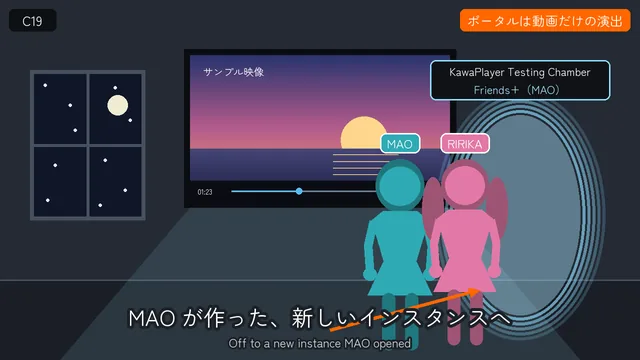
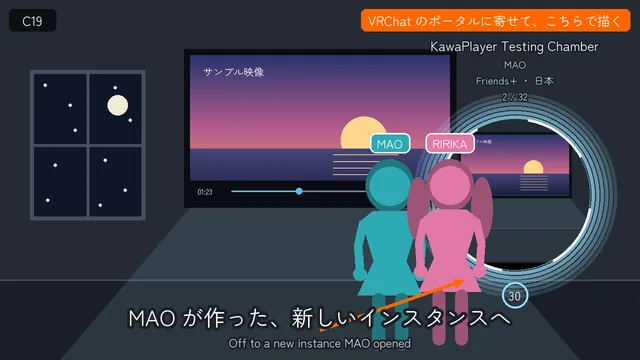
docs(design): draw the portal after VRChat's own (#262)
The portal is made in Unity for the video, laid out like a VRChat
portal: the world's picture inside a round gate, the world, its maker,
the instance type and the head count above, the seconds left below.
All of it is drawn here, as VRChat's terms forbid copying or modifying
its client's interface and graphics.

Claude-Session: https://claude.ai/code/session_014UgSPcxLDoFJhLM3Stmszr

Changed region(s): [[0.5, 0.0, 0.9688, 0.9778]]

diff --git a/docs/design/262-intro-video/images/frames.py b/docs/design/262-intro-video/images/frames.py
@@ -965,30 +965,44 @@ def c18():
     return im
 
 
-def portal(im, cx, cy, rx, ry):
-    """A portal of the video's own design: a ring of light, with where it leads above it."""
-    def draw(o):
-        for k in range(6):
-            o.ellipse((cx - rx - k * 10, cy - ry - k * 10, cx + rx + k * 10, cy + ry + k * 10),
-                      outline=(140, 220, 255, 200 - k * 30), width=6)
-        o.ellipse((cx - rx, cy - ry, cx + rx, cy + ry), fill=(170, 230, 255, 110))
-    overlay(im, draw)
+def portal(im, cx, cy, r):
+    """A portal laid out like VRChat's, drawn here from scratch: a round gate showing the world
+    it leads to, what the instance is above it, and the seconds left below it."""
+    thumb = new(NIGHT["wall"])
+    room(thumb, screen=sample_video(bar=False), glow=True)
+    thumb = thumb.crop((280, 40, 1000, 760)).resize((int(r * 2), int(r * 2)), Image.LANCZOS)
+    mask = Image.new("L", thumb.size, 0)
+    ImageDraw.Draw(mask).ellipse((0, 0, thumb.width - 1, thumb.height - 1), fill=255)
+    thumb.putalpha(mask)
+
+    def glow(o):
+        for k in range(7):
+            o.ellipse((cx - r - k * 9, cy - r - k * 9, cx + r + k * 9, cy + r + k * 9),
+                      outline=(150, 225, 255, 210 - k * 28), width=7)
+    overlay(im, glow)
+    im.alpha_composite(thumb, (int(cx - r), int(cy - r)))
     d = ImageDraw.Draw(im)
-    d.rounded_rectangle((cx - 180, cy - ry - 110, cx + 180, cy - ry - 30), 12, fill=(16, 18, 22),
-                        outline=(140, 220, 255), width=3)
-    d.text((cx, cy - ry - 88), "KawaPlayer Testing Chamber", font=font(22), fill=WHITE, anchor="mm")
-    d.text((cx, cy - ry - 52), "Friends+（MAO）", font=font(22), fill=(170, 230, 255), anchor="mm")
+    for k in range(4):
+        d.arc((cx - r - 4, cy - r - 4, cx + r + 4, cy + r + 4), k * 90 + 10, k * 90 + 60, fill=WHITE, width=5)
+    lines = (("KawaPlayer Testing Chamber", 26, WHITE), ("MAO", 20, (200, 230, 245)),
+             ("Friends+ ・ 日本", 20, (170, 230, 255)), ("2 / 32", 20, (200, 230, 245)))
+    y = cy - r - 150
+    for t, z, c in lines:
+        d.text((cx, y), t, font=font(z), fill=c, anchor="mm", stroke_width=3, stroke_fill=INK)
+        y += z + 12
+    d.ellipse((cx - 26, cy + r + 24, cx + 26, cy + r + 76), outline=(150, 225, 255), width=4)
+    d.text((cx, cy + r + 50), "30", font=font(24), fill=WHITE, anchor="mm")
 
 
 def c19():
     im = new(NIGHT["wall"])
     room(im, screen=sample_video(), glow=True)
-    portal(im, 1040, 430, 120, 200)
-    person(im, 800, 700, 380, A_COL, "MAO")
-    person(im, 930, 690, 370, B_COL, "RIRIKA", twin=True)
-    arrow(im, (660, 660), (960, 580))
+    portal(im, 1030, 390, 150)
+    person(im, 780, 700, 380, A_COL, "MAO")
+    person(im, 900, 690, 370, B_COL, "RIRIKA", twin=True)
+    arrow(im, (640, 660), (930, 560))
     telop(im, "MAO が作った、新しいインスタンスへ", en="Off to a new instance MAO opened")
-    note(im, "ポータルは動画だけの演出")
+    note(im, "VRChat のポータルに寄せて、こちらで描く")
     return im
 
 

diff --git a/docs/design/262-intro-video/README.md b/docs/design/262-intro-video/README.md
@@ -5,7 +5,7 @@
 | 文書の種類 | 台本（絵コンテ） |
 | 関連する issue | #262 |
 | 日付 | 2026-10-17 |
-| 状態 | レビュー中。決めることが 5 つ残る（[5 章](#5-決めること)） |
+| 状態 | レビュー中。決めることが 4 つ残る（[5 章](#5-決めること)） |
 
 ## 要旨
 
@@ -69,6 +69,11 @@ KawaPlayer で何ができるのか、何が楽しいのかを、文章を読ま
 | 〔HyperFrames〕 | 題名、見出し、テロップ、場面の切り替え、終わりの画面を、HTML で組んで書き出す |
 
 **タブレットの画面に重ねる：** C06 の魚は HyperFrames で書き出し、Unity でタブレットの画面に重ねて撮る（動画だけの演出）。
+
+**ポータル（C19）：** Unity で、動画だけの演出として作る（2026-10-17 のレビュー）。
+
+- **見た目：** VRChat のポータルにできるだけ寄せる。丸い門の中に行き先のワールドの画像を出し、上にワールド名・作った人・インスタンスの種類・人数を、下に残りの秒数を出す。縁の光は渦を巻く。
+- **描き方：** すべてこちらで描く。VRChat の利用規約は、クライアントとその画面・画像の写しや改変、二次的な作品を作ることを禁じている。そのため、クライアントから取り出した素材や、画面をなぞった絵は使わない。VRChat のロゴも出さない。
 
 ### 2.2 登場人物
 
@@ -180,7 +185,7 @@ KawaPlayer で何ができるのか、何が楽しいのかを、文章を読ま
 | **C16**<br>0:50 | <img src="images/c16.webp" width="320" alt="C16：じゅうたんの上のタブレットを、寝そべった 2 人がのぞく"> | 訪問者アプリから少し引くと、タブレットは床のじゅうたんの上にある。MAO は寝そべって肘をつき、背中越しに映る。向かい側では RIRIKA も寝そべって肘をつき、頭をかわいく左右に揺らしながら画面をのぞいている。〔Unity：寝そべりのポーズが要る〕 | 見出し：03 自動再生／入ったときに流す動画を、タブレットで決める | | 3.5 秒 |
 | **C17**<br>0:53.5 | <img src="images/c17.webp" width="320" alt="C17：MAO がホームから設定の再生を開く"> | 真上から。MAO がホームボタンを押し、設定アプリの **再生** を選ぶ。〔Unity〕 | 注記：ホーム → 設定 → 再生 | タップの音 | 3.0 秒 |
 | **C18**<br>0:56.5 | <img src="images/c18.webp" width="320" alt="C18：自動再生(Global) の URL を決める"> | カメラがタブレットに寄る。自動再生(Global) の **URLを入力** から VHub のプレイリストの URL を入れると、設定値に出る。〔Unity〕 | URL を決めておけば<br>吹き出し：インスタンスを作った人が決める | 決める音 | 3.5 秒 |
-| **C19**<br>1:00 | <img src="images/c19.webp" width="320" alt="C19：2 人がポータルで新しいインスタンスへ"> | 画面転換。MAO が作った、同じワールドの新しいインスタンス（Friends+ など）へのポータルに、2 人が入る。〔Unity。ポータルの撮り方は 5 章〕 | MAO が作った、新しいインスタンスへ | ポータルの音 | 3.0 秒 |
+| **C19**<br>1:00 | <img src="images/c19.webp" width="320" alt="C19：2 人がポータルで新しいインスタンスへ"> | 画面転換。MAO が作った、同じワールドの新しいインスタンス（Friends+ など）へのポータルに、2 人が入る。ポータルは VRChat のポータルに寄せて描く（[2.1](#21-撮り方)）。〔Unity〕 | MAO が作った、新しいインスタンスへ | ポータルの音 | 3.0 秒 |
 | **C20**<br>1:03 | <img src="images/c20.webp" width="320" alt="C20：着いた先で、もう決めた動画が流れている"> | 新しいインスタンスに着くと、スクリーンはもう決めたプレイリストを流している。RIRIKA が両手を上げて喜ぶ。〔Unity〕 | 入ったときから、決めた動画が流れる<br>吹き出し（RIRIKA）：もう流れてる！ | 入室の音 | 4.0 秒 |
 
 ### 締め
@@ -200,9 +205,6 @@ KawaPlayer で何ができるのか、何が楽しいのかを、文章を読ま
 2. **英語の一行：** 見出しとテロップに英語を添えるか。添えると、海外で遊ぶ人にも伝わる。そのぶん、画面の文字は増える。絵では添えた。
 3. **BGM：** 権利のはっきりしたもの。商用で使えることと、YouTube の Content ID で止められないことを確かめる。
 4. **縦長の短い版：** 横長の版ができてから決める。
-5. **ポータルの撮り方（C19）：** 次のどちらかにする。
-   - **A：** Unity で、動画だけの光の輪として作る。VRChat のポータルには似せすぎない。1 つのシーンで撮れる。
-   - **B：** VRChat で、本物のポータルを撮る。アバターを自分のアカウントに非公開で上げ、2 人分のアカウントで、公開しているワールドの新しいインスタンスへ入る。手間は大きい。
 
 ## 6. 次にやること
 
